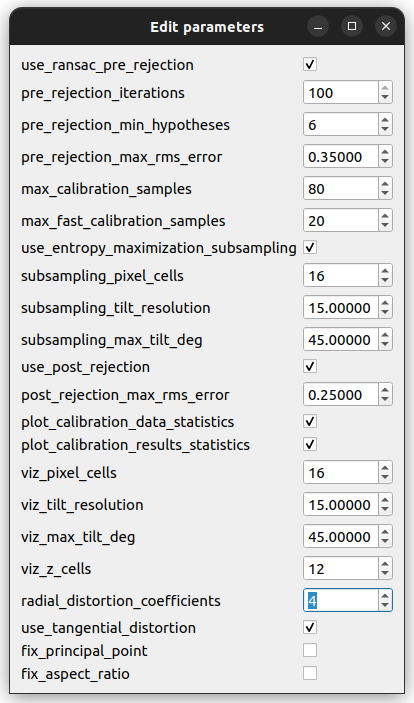
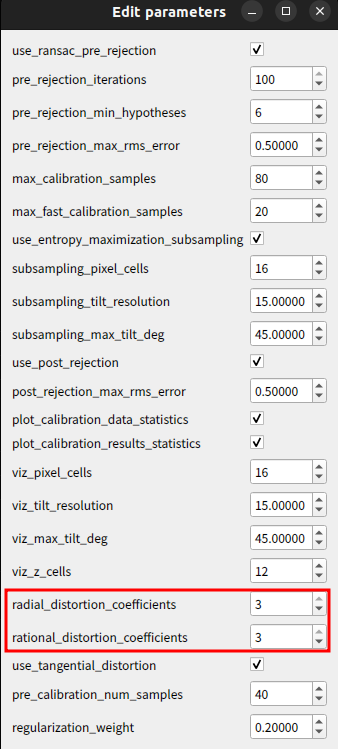
docs: update the contents of intrinsic calibration to use Ceres version

Changed region(s): [[0.0, 0.0, 1.0, 1.0]]

diff --git a/docs/calibration/index.md b/docs/calibration/index.md
@@ -109,6 +109,7 @@ Tool reference document: [intrinsic_camera_calibrator.md](https://github.com/tie
     1. On the first dialog:  
         ![](images/1st_diag.png)
         - Set “Board options” to Chess board
+        - Set "Parameters Profile" to Ceres Calib
         - Then, press “Start”
 
     2. On the second dialog:  
@@ -123,14 +124,15 @@ Tool reference document: [intrinsic_camera_calibrator.md](https://github.com/tie
         - In “Visualization options”
             - Check “Draw training occupancy”
             - Set “Drawings alpha” to 0.3
-        - [Just confirm] In “Calibration control” > “Calibration parameters”: set the value of “radial_distortion_coefficients” according to the camera lens FoV  
+        - In "Calibration control" > "Calibration parameters": set the value of "radial_distortion_coefficients" and "rational_distortion_coefficients" according to the camera lens FoV
             ![](images/image-20241007-023441.png)
-            - 120deg → 4, 30deg → 2
-        - “Data collection” > “Data collection parameters”: tune the values of “max_allowed_max_reprojection_error” and “max_allowed_rms_reprojection_error”  
-            ![](images/image-20241007-023835.png)
-            - In this image, “max_allowed_max_reprojection_error” and “max_allowed_rms_reprojection_error” were set to 1.5 and 1.0, respectively.
-            - Tune these values according to the values displayed in “Single-shot calibration detection results”. If the displayed values are frequently higher than the setting values, you have to set larger ones.
-                ![](images/image-20241007-042232.png)
+            - 030deg → radial: 2, rational: 0
+            - 120deg → radial: 3, rational: 3
+        <!-- - “Data collection” > “Data collection parameters”: tune the values of “max_allowed_max_reprojection_error” and “max_allowed_rms_reprojection_error”   -->
+        <!--     ![](images/image-20241007-023835.png) -->
+        <!--     - In this image, “max_allowed_max_reprojection_error” and “max_allowed_rms_reprojection_error” were set to 1.5 and 1.0, respectively. -->
+        <!--     - Tune these values according to the values displayed in “Single-shot calibration detection results”. If the displayed values are frequently higher than the setting values, you have to set larger ones. -->
+        <!--         ![](images/image-20241007-042232.png) -->
     4. Move the target chessboard slowly until almost all of the cells become red. Including multiple board angles and poses also assists in the generation of accurate intrinsic parameters. Moving the camera instead of the board is also possible.
 
     5. Once almost all cells turn red, click “Calibration control” > “Calibrate”. When the “calibration status changes from “calibrating” to “idle”, click “Save”.
@@ -196,7 +198,7 @@ After pressing the “Save” button on the GUI, you should see `<camera_name>_i
         distortion_coefficients:
         rows: 1
         -  cols: 5
-        +  cols: 14  # <- increase the number of coefficients to handle large distortion
+        +  cols: 8  # <- increase the number of coefficients to handle large distortion
         ```
 2. Copy the modified file to the corresponding ECU. The ECU camera assignment is as follows:
     - ECU0: camera0, 1, 2, and 3
